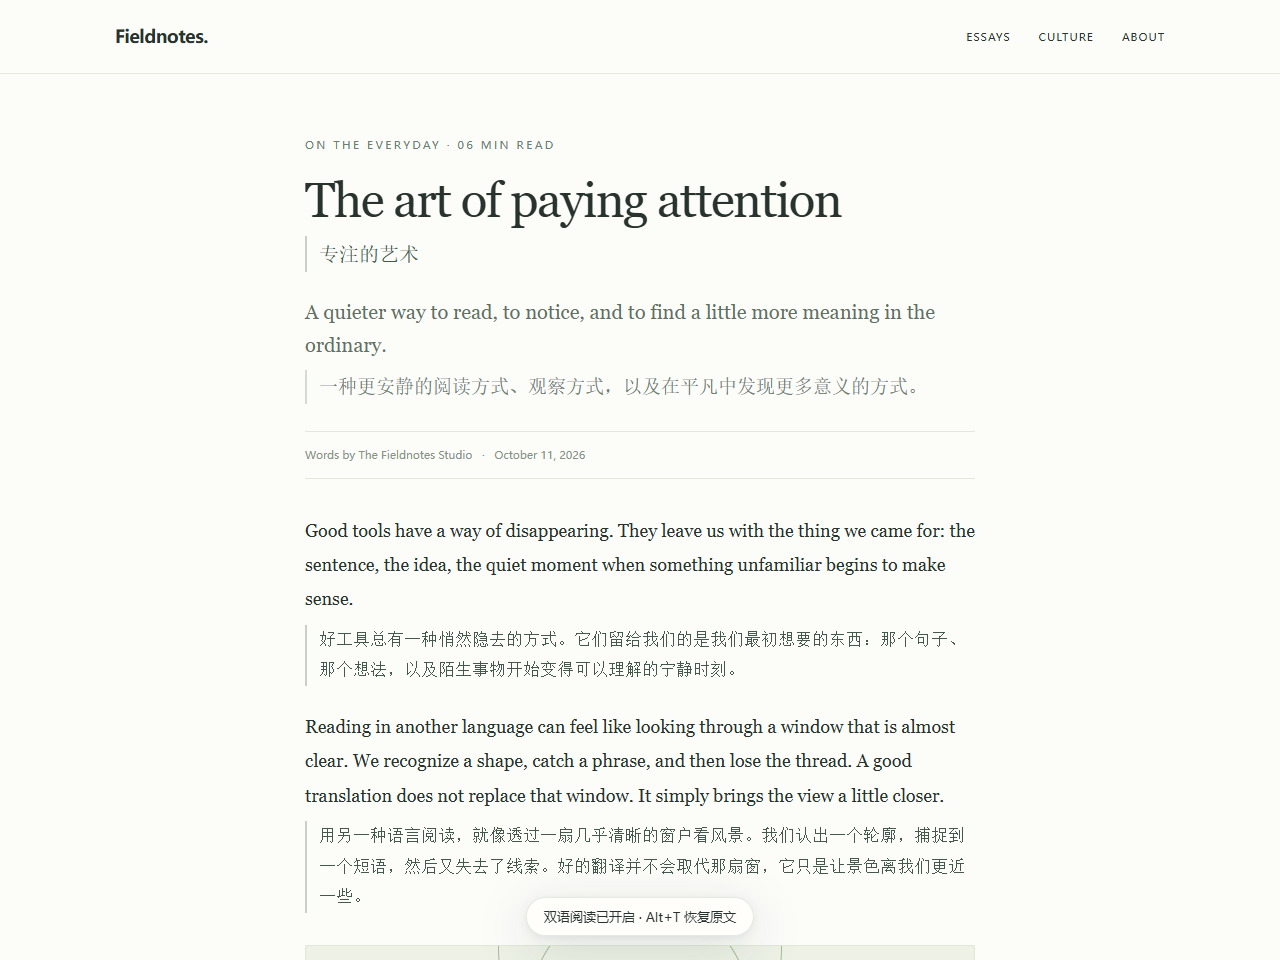
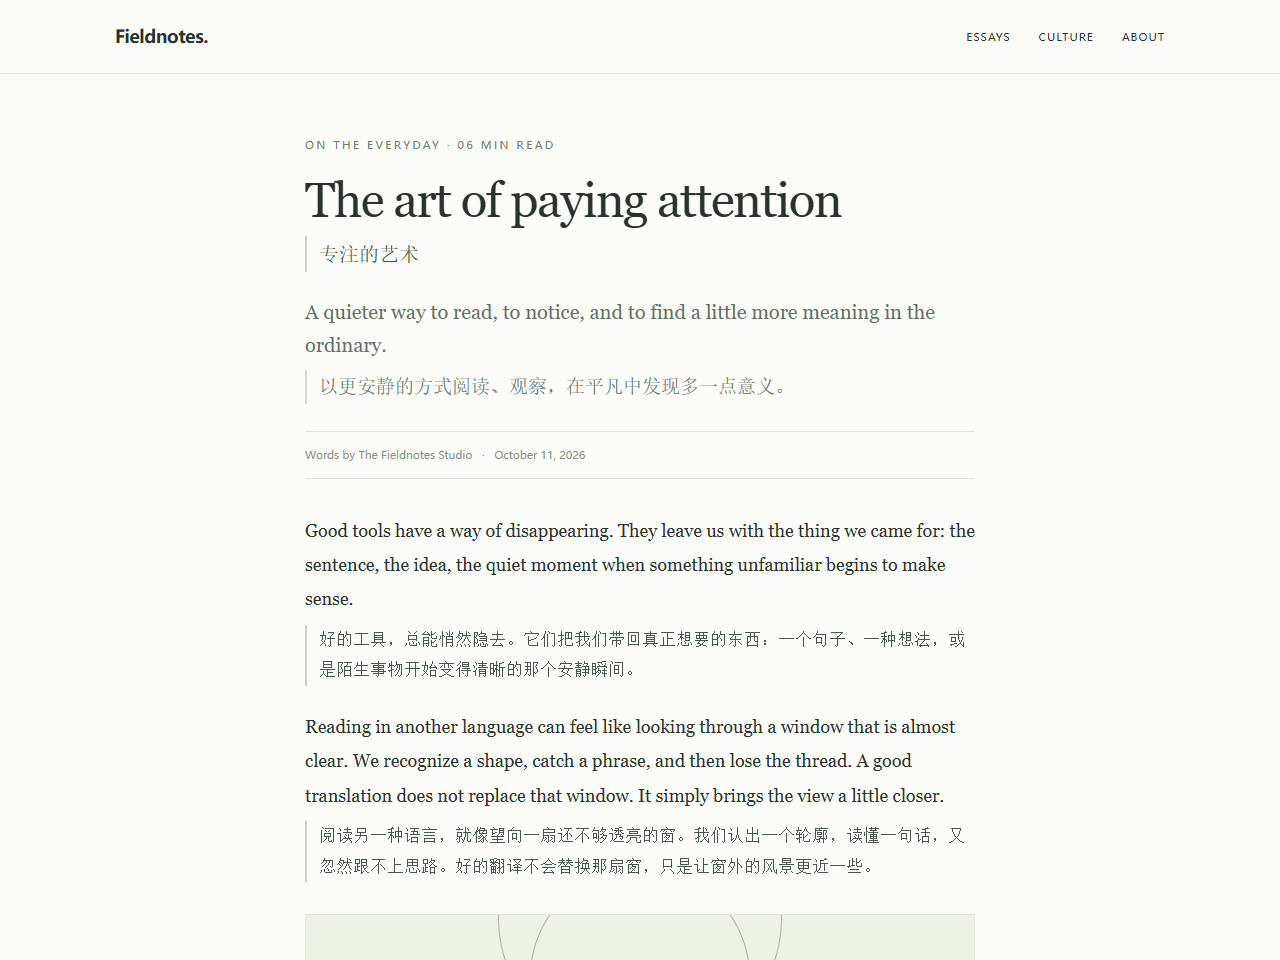
Refresh bilingual READMEs and v1.2.0 product screenshots (#2)

diff --git a/scripts/capture-readme-browser.js b/scripts/capture-readme-browser.js
@@ -1,0 +1,50 @@
+async page => {
+  const capture = "__QT_CAPTURE__";
+  const context = page.context();
+  const worker = context.serviceWorkers()[0] || await context.waitForEvent('serviceworker');
+  const origin = worker.url().replace('/background.js', '');
+  const article = await context.newPage();
+  await article.goto(capture.base + '/article');
+  const workspace = await context.newPage();
+  await workspace.goto(origin + '/workspace.html');
+  const tabId = await worker.evaluate(async () => (await chrome.tabs.query({})).find(t => t.url?.includes('/article')).id);
+  await worker.evaluate(async id => { const tab = await chrome.tabs.update(id, {active: true}); await chrome.windows.update(tab.windowId, {focused: true}); }, tabId);
+  await article.bringToFront();
+  await article.waitForFunction(() => document.visibilityState === 'visible');
+  await worker.evaluate(id => chrome.tabs.sendMessage(id, {type: 'qt-toggle'}), tabId);
+  await article.locator('#first qt-line .text[data-loading=false]').waitFor();
+  await article.locator('#second qt-line .text[data-loading=false]').waitFor();
+  await article.locator('qt-overlay .toast').waitFor({state: 'hidden'});
+  if (await article.locator('#first qt-line .text').innerText() !== capture.firstResult) throw new Error('Unexpected bilingual output');
+  if (capture.locale === 'zh-CN') await article.screenshot({path: capture.output + '/bilingual.png'});
+  await worker.evaluate(id => chrome.tabs.sendMessage(id, {type: 'qt-toggle'}), tabId);
+  await article.locator('qt-line').waitFor({state: 'detached'});
+  await article.locator('qt-overlay .toast').waitFor({state: 'hidden'});
+  await article.locator('#first').evaluate(element => {
+    const range = document.createRange(); range.selectNodeContents(element);
+    getSelection().removeAllRanges(); getSelection().addRange(range);
+    element.dispatchEvent(new MouseEvent('mouseup', {bubbles: true}));
+  });
+  await article.locator('qt-overlay .launch').click();
+  await article.locator('qt-overlay .translation[data-loading=false]').waitFor();
+  if (await article.locator('qt-overlay .translation').innerText() !== capture.firstResult) throw new Error('Unexpected selection output');
+  await article.locator('qt-overlay .pin').click();
+  await article.locator('h1').click();
+  const paragraph = await article.locator('#first').boundingBox();
+  const panel = await article.locator('qt-overlay .panel').boundingBox();
+  await article.screenshot({path: capture.output + (capture.locale === 'zh-CN' ? '/selection.png' : '/selection-en.png'), clip: {x: paragraph.x - 24, y: paragraph.y - 24, width: paragraph.width + 48, height: panel.y + panel.height - paragraph.y + 48}});
+  await workspace.bringToFront();
+  await workspace.setViewportSize({width: 1360, height: 900});
+  await workspace.locator('#model').filter({hasText: 'demo-replay'}).waitFor();
+  await workspace.locator('#source').fill(capture.source);
+  // The second actual request reads the extension cache; screenshots do not advertise a mock latency.
+  for (let i = 0; i < 2; i++) {
+    await workspace.locator('#translate').click();
+    await workspace.waitForFunction(() => !document.querySelector('#copy').disabled && !document.querySelector('#translate').disabled);
+  }
+  if (await workspace.locator('#result').innerText() !== capture.result) throw new Error('Unexpected workspace output');
+  await workspace.locator('h1').click();
+  await workspace.screenshot({path: capture.output + (capture.locale === 'zh-CN' ? '/workspace.png' : '/workspace-en.png')});
+  const version = await worker.evaluate(() => chrome.runtime.getManifest().version);
+  return {version, locale: capture.locale, browser: context.browser().version(), replay: true, selected: await article.locator('qt-overlay .meta').innerText(), workspaceStatus: await workspace.locator('#status').innerText(), sourcePreserved: await workspace.locator('#source').inputValue() === capture.source};
+}

diff --git a/README.md b/README.md
@@ -18,11 +18,25 @@ English · [简体中文](README.zh-CN.md)
 
 - **Bilingual pages.** Keep the original text and links; add translations underneath. Only nearby passages enter the translation queue. Restore the page in one action.
 - **Selection and hover.** A small button appears after selection. Stream into a compact card, pin it, copy, or open it in the workspace. Hold Alt over a paragraph to translate just that passage.
-- **Room for long text.** Up to 60,000 characters, automatic chunking, ordered streaming, cancellation, TXT/Markdown import, and bilingual text export. Incomplete results stay visibly incomplete.
+- **Room for long text.** Up to 60,000 characters, automatic chunking, ordered streaming, cancellation, TXT/Markdown import, and bilingual text export. Original and translation sit side by side in wide windows and stack in narrow ones.
 - **Your API.** URL presets for OpenAI, DeepSeek, OpenRouter, SiliconFlow, and local Ollama. Custom compatible endpoints work too. Enter your own model and key; provider charges apply.
 - **Quiet by default.** No permanent floating button. Three translation styles, light/dark themes, glossary, per-site controls, and a local cache. Chinese/English UI; 12 target languages.
 
-![Selection translation card](docs/assets/selection.png)
+Version **1.2.0** adds serif reading text, clearer system controls, and better Chinese/English input typography. It uses fonts already on your device; inline page translations keep the website's own typeface. [What's changed →](CHANGELOG.md)
+
+### Translate a passage, keep your place
+
+The selection card keeps the source nearby. Pin it while reading, copy the translation, or expand it into the workspace.
+
+![v1.2.0 English selection card, pinned below the original paragraph](docs/assets/selection-en.png)
+
+### Give longer text some room
+
+Import or paste text, watch the translation arrive, and export both languages together. The main action stays visible in narrow windows too.
+
+![v1.2.0 English workspace with original English text and Chinese translation](docs/assets/workspace-en.png)
+
+Screenshots show the actual v1.2.0 interface with an authored demo article and fixed sample translations replayed locally. Selection and workspace show completed cache hits, not API speed measurements. [Image sources and reproduction →](docs/assets/README.md)
 
 ## Install
 
@@ -33,6 +47,8 @@ English · [简体中文](README.zh-CN.md)
 | Firefox desktop | Download the **Firefox ZIP**, extract, open `about:debugging`, and **Load Temporary Add-on** → `manifest.json` |
 
 The first installation opens Preferences. Enter the **API base URL, model ID, and your key**, save, allow the API host, then test the connection. Refresh pages already open before installation.
+
+**Updating an unpacked Chromium installation?** Extract the new version into the same folder, click **Reload** on its extension card, then refresh the pages you want to translate. Keeping the original installation preserves its saved API configuration and preferences.
 
 These are developer packages. Firefox is **unsigned and temporary until browser restart**. No store listings or Safari build are claimed. See the [tested browser/version matrix and update instructions](docs/BROWSERS.md).
 
@@ -49,13 +65,13 @@ These are developer packages. Firefox is **unsigned and temporary until browser 
 
 Change conflicting shortcuts in your browser's extension shortcut manager.
 
-## Speed, with evidence
+## Speed and verification
 
 Four requests maximum, with capacity reserved for selections. Identical requests share work; cached results skip the network. Later long-text chunks wait for earlier chunks so visible output grows in order.
 
-In the recorded 1.0.1 live-provider sample on MDN, Wikipedia, and Paul Graham, seven short selections had **0.980 s median time to first visible text**, cache disabled. One 7,167-character passage finished in **9.709 s**. These are small, provider/network-specific samples, not a speed guarantee. [Method, individual measurements, and limits →](docs/REAL-WEB-QA.md)
+In the **October 12, 2026** live sample with GLM 5.3 Flash, five selections across MDN, Wikipedia, and Paul Graham had **1.344 s median time to first text**, with cache disabled. A 7,167-character workspace sample completed in **11.073 s**. This sample preceded the final typography refinement; it is not a controlled comparison or a speed guarantee. [Measurements and limits →](docs/FRONTEND-QA.md#live-api-sample)
 
-Version 1.2.0 adds refined reading typography, responsive workspace controls, and stable selection cards. Chrome, Edge, and Comet each passed 64 checks; Firefox passed 9 end-to-end checks. [Frontend validation and screenshots →](docs/FRONTEND-QA.md) · [Earlier stress and protocol checks →](docs/QA.md)
+For v1.2.0, Chrome, Edge, and Comet each passed **64 checks**; Firefox passed **9 end-to-end checks**. Coverage includes layout, selection positioning, settings races, and light/dark contrast. Node tests and reproducible-package checks also pass. [Frontend validation →](docs/FRONTEND-QA.md) · [Earlier stress and protocol checks →](docs/QA.md)
 
 ## Privacy
 
@@ -79,4 +95,6 @@ Browser tests use isolated profiles and a dummy localhost API. `QT_CHROMIUM_BINA
 
 Vertical bilingual reading and focused selection translation are useful ideas demonstrated by [Immersive Translate](https://immersivetranslate.com/en/). [TWP](https://github.com/FilipePS/Traduzir-paginas-web) is another established reference for page-translation workflows. Quiet Translate independently implements a small BYO-API reading tool; it is not affiliated with either project. No third-party extension source was copied.
 
-[MIT](LICENSE). Screenshots use an original fixture written for this project; translations in the demo were generated by the configured model.
+The separation of interface, input, and reading fonts draws on [DSH Ivory](https://github.com/ZJUZhiyuCai/dsh-ivory). [Typography details →](docs/FRONTEND-QA.md#typography-refinement)
+
+[MIT](LICENSE). Demo articles and translations are included in the repository; screenshots contain no personal browsing content or credentials.

diff --git a/README.zh-CN.md b/README.zh-CN.md
@@ -8,6 +8,8 @@
 
 [English](README.md) · 简体中文
 
+[![CI](https://github.com/ZJUZhiyuCai/quiet-translate/actions/workflows/ci.yml/badge.svg)](https://github.com/ZJUZhiyuCai/quiet-translate/actions/workflows/ci.yml) [![License: MIT](https://img.shields.io/badge/License-MIT-397965.svg)](LICENSE)
+
 [**下载 v1.2.0**](https://github.com/ZJUZhiyuCai/quiet-translate/releases/latest) · [安装与浏览器支持](docs/BROWSERS.md) · [API 配置](docs/PROVIDERS.md) · [反馈问题](https://github.com/ZJUZhiyuCai/quiet-translate/issues/new/choose)
 
 ![保留原文的双语阅读](docs/assets/bilingual.png)
@@ -16,11 +18,25 @@
 
 - **网页双语**：原文和链接保留，译文放在下面；只处理读到附近的段落，一键恢复。
 - **划线翻译**：选中后才出现小按钮；流式浮层可固定、复制、展开到长文工作台。鼠标悬停并按住 Alt，可只译一段。
-- **长文工作台**：最多 60,000 字符，自动分段、顺序流式显示、随时取消，支持 TXT / Markdown 导入与双语文本导出。
+- **长文工作台**：最多 60,000 字符，自动分段、顺序流式显示、随时取消，支持 TXT / Markdown 导入与双语文本导出。宽窗口左右对照，窄窗口上下排列。
 - **自带 API**：支持 OpenAI 兼容 Chat Completions 接口，提供多个服务地址预设。模型、密钥和 API 费用由使用者自行管理。
 - **自然融入**：无常驻悬浮球；细边线、柔和底色、纯文字三种样式，深浅色、术语表、网站规则和本地缓存。界面跟随浏览器显示中英文，提供 12 种目标语言。
 
-![划线翻译浮层](docs/assets/selection.png)
+**1.2.0** 改进了阅读字体、控件和中英混排输入。译文采用更有书页感的衬线字体，界面保持清晰；字体取自本机，网页中的双语译文继续沿用原网站字体。[更新记录 →](CHANGELOG.md)
+
+### 选中一段，继续阅读
+
+浮层保留原文摘要，可固定、复制，也可展开到长文工作台。
+
+![v1.2.0 中文划线浮层，固定在原文段落下方](docs/assets/selection.png)
+
+### 长一点，也能从容对照
+
+粘贴或导入文字，译文随生成展开，完成后可导出双语文本。窄窗口也能直接找到翻译按钮。
+
+![v1.2.0 中文长文工作台，英文原文与中文译文左右对照](docs/assets/workspace.png)
+
+截图来自实际运行的 v1.2.0，使用项目自制文章和本地回放的固定演示译文。划线和工作台展示的是缓存完成状态，不代表 API 响应速度。[图片来源与复现方法 →](docs/assets/README.md)
 
 ## 安装
 
@@ -29,6 +45,8 @@
 **Firefox**：下载 Firefox ZIP 并解压；在 `about:debugging` →“此 Firefox”→“临时载入附加组件”中选 `manifest.json`。当前是**未签名开发包，重启后需要重新加载**，尚未发布到 AMO。
 
 首次安装会打开设置。填写接口地址、模型 ID 和自己的 API 密钥，保存并允许访问接口，再测试连接。已打开的网页需要刷新。详见[兼容矩阵、更新方式和限制](docs/BROWSERS.md)。Safari 和移动端尚未完成验证。
+
+**已安装 Chromium 版本？** 将新版本覆盖到原来的安装目录，在扩展管理页点击“重新加载”，再刷新需要翻译的网页。沿用原来的安装，可以保留已保存的 API 配置和偏好。
 
 ## 常用操作
 
@@ -43,13 +61,13 @@
 
 快捷键冲突时可在浏览器的扩展快捷键管理页修改。
 
-## 性能不是口号
+## 响应与验证
 
 最多 4 路请求，为即时划线预留容量；重复请求合并，本地缓存直接复用；长文后续分块不会抢到前面，避免阅读位置跳动。
 
-1.0.1 的真实服务样本覆盖 MDN、Wikipedia、Paul Graham：关闭缓存的 7 次短段划线，首字中位数 **0.980 秒**；7,167 字符长段 **9.709 秒**完成。这些是特定网络与模型的小样本，不能代表所有服务或所有页面。[完整实测 →](docs/REAL-WEB-QA.md)
+**2026 年 10 月 12 日**的 GLM 5.3 Flash 实测覆盖 MDN、Wikipedia、Paul Graham：关闭缓存的 5 次划线，首字中位数 **1.344 秒**；7,167 字符的工作台样本 **11.073 秒**完成。这轮测量早于最后的字体调整，属于特定网络和模型下的小样本，不是严格对照实验或速度承诺。[逐项测量与限制 →](docs/FRONTEND-QA.md#live-api-sample)
 
-1.2.0 改进了阅读字体、窄屏工作台和划线浮层。Chrome、Edge、Comet 各通过 64 项检查，Firefox 通过 9 项端到端检查。[新版验证与截图 →](docs/FRONTEND-QA.md) · [此前的压力与协议验证 →](docs/QA.md)
+1.2.0 在 Chrome、Edge、Comet 中各通过 **64 项检查**，Firefox 通过 **9 项端到端检查**，覆盖排版、划线定位、设置状态冲突和深浅色对比度。单元测试和安装包可复现检查也已通过。[新版验证 →](docs/FRONTEND-QA.md) · [此前的压力与协议验证 →](docs/QA.md)
 
 ## 数据与隐私
 
@@ -60,3 +78,7 @@
 需要 Node.js 22+、Python 3.10+。`npm ci` 安装开发工具，`npm run verify` 检查并构建；`npm run lint:firefox` 校验 Firefox 包。浏览器回归为 `npm run test:chromium` / `npm run test:firefox`，使用独立配置和虚拟密钥。[贡献指南](CONTRIBUTING.md) · [路线图](docs/ROADMAP.md) · [MIT 许可证](LICENSE)
 
 产品交互借鉴成熟翻译工具的双语阅读与按需翻译经验，代码独立实现。感谢 [Immersive Translate](https://immersivetranslate.com/en/) 与 [TWP](https://github.com/FilipePS/Traduzir-paginas-web) 展示了这一类工具值得打磨的方向。
+
+界面、输入与阅读字体的分工参考了 [DSH Ivory](https://github.com/ZJUZhiyuCai/dsh-ivory)。[字体设计与验证 →](docs/FRONTEND-QA.md#typography-refinement)
+
+演示文章和译文随项目以 [MIT 许可证](LICENSE) 提供；截图不包含个人浏览内容或密钥。

diff --git a/docs/assets/README.md b/docs/assets/README.md
@@ -1,9 +1,32 @@
 # Demo assets
 
-These screenshots were captured from Quiet Translate 1.1.0 running on the original `tests/fixtures/article.html` page and its text workspace. The translations were produced by GLM 5.3 Flash through an OpenAI-compatible API; the selection image explicitly shows a local cache hit. They contain no personal browser tabs or API credentials.
+## README screenshots · v1.2.0
 
-- `bilingual.png`: translations beneath unchanged English passages.
-- `selection.png`: a pinned selection card on the same article.
-- `workspace.png`: original text and a completed long-text translation.
+Captured on October 12, 2026 in Comet 139.1.7258.19069 on Windows, using the actual v1.2.0 extension with separate disposable English and Chinese profiles. The page is the original [Fieldnotes fixture](../../tests/fixtures/article.html). Chinese translations are [authored demo text](../../tests/fixtures/readme-translations.json), replayed through a localhost OpenAI-compatible SSE endpoint.
 
-The fixture and screenshots are included under the repository's MIT license. They are product demonstrations, not customer testimonials or measurements of every API provider.
+| Image | Contents |
+|---|---|
+| `bilingual.png` | English passages with Chinese translations underneath; shared by both READMEs |
+| `selection-en.png` / `selection.png` | Pinned selection card with English / Chinese controls, captured with the surrounding source paragraph |
+| `workspace-en.png` / `workspace.png` | English / Chinese workspace with a complete translation beside the original |
+
+The model label `demo-replay` identifies this local fixture, not a hosted model or a bundled translation account. Selection and workspace screenshots show real cache hits after the demo responses pass through the extension. No latency label has been edited into the images. These are interface demonstrations, not live-provider output, benchmarks, or customer testimonials. They contain no personal browser tabs, browsing data, or credentials. Fonts depend on the operating system and installed faces.
+
+### Reproduce
+
+After `npm ci`, run:
+
+```sh
+npm run docs:screenshots
+```
+
+The script uses Playwright CLI and finds an installed Chrome/Chromium, or accepts `QT_CHROMIUM_BINARY` to select a browser such as Comet. It reads no personal profiles or API keys and makes no model-provider requests. Screenshots, a version/locale report, and disposable profiles go into a unique ignored `output/playwright/readme-*/` directory. Review the images, then copy the five PNGs from its `images/` directory here. The script does not overwrite published assets automatically.
+
+## Frontend QA figures
+
+The other images support [frontend validation](../FRONTEND-QA.md), rather than the README product gallery:
+
+- `frontend-workspace-en.png` and `frontend-workspace-zh-narrow.png` show empty workspace layouts in the final frontend revision before its version number changed from 1.1.1 to 1.2.0. They use a dummy API configuration.
+- `typography-before.png` and `typography-after.png` compare the same fixed, authored bilingual specimen before and after the font refinement. Their specimen text is directly seeded for typography inspection; it is not model output.
+
+All demo text and screenshots are provided under the repository's MIT license.

diff --git a/CONTRIBUTING.md b/CONTRIBUTING.md
@@ -18,6 +18,8 @@ For the automated Firefox integration, install Firefox and run `npm run test:fir
 
 For Chromium, `npm run test:chromium` drives a fresh profile through Playwright CLI. Set `QT_CHROMIUM_BINARY` to a browser executable to test a particular browser, and `QT_BROWSER_LOCALE` to `zh-CN` or `en-US` to exercise either interface language (English is the default). The suite includes reading/stress tests, real-page structural fixtures, and frontend state/layout regressions. Each run gets a unique output directory so parallel browser runs do not share a profile. All artifacts go into ignored `output/playwright/`. Browser behavior and reproducible cases are documented in [QA](docs/QA.md).
 
+For README images, `npm run docs:screenshots` captures the current interface in isolated English/Chinese profiles using authored localhost demo translations. Review its output before copying images into `docs/assets/`. See [image provenance and reproduction](docs/assets/README.md); keep mock output separate from live-provider performance claims.
+
 ## What belongs in a PR
 
 - Describe the user-visible problem and resulting behavior.
